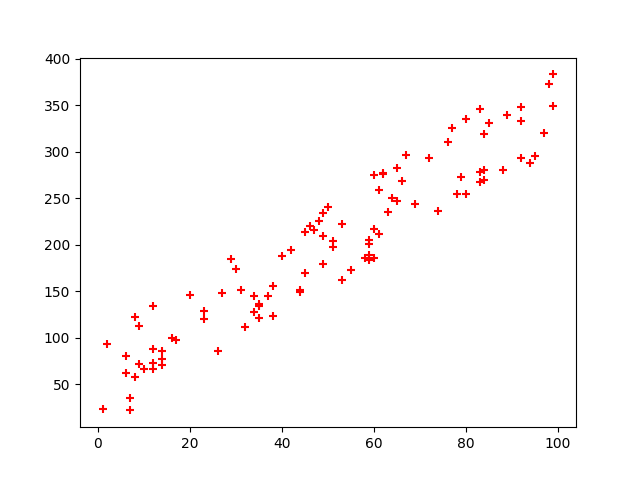
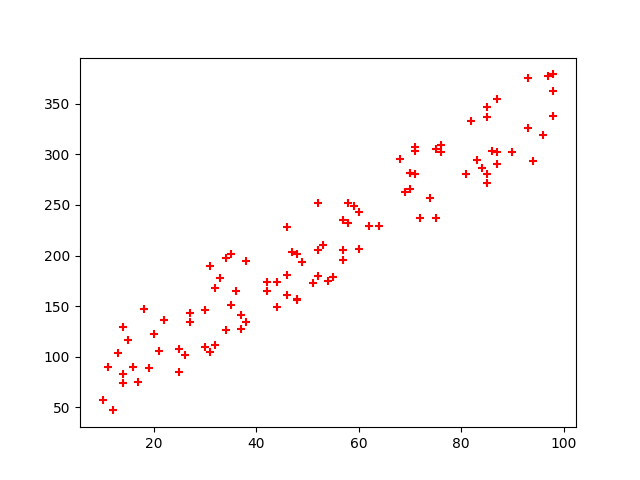
Django1

diff --git a/inter/settings.py b/inter/settings.py
@@ -55,7 +55,7 @@ ROOT_URLCONF = 'inter.urls'
 TEMPLATES = [
     {
         'BACKEND': 'django.template.backends.django.DjangoTemplates',
-        'DIRS': [BASE_DIR,"template"],
+        'DIRS': [BASE_DIR,""],
         'APP_DIRS': True,
         'OPTIONS': {
             'context_processors': [

diff --git a/inter/viesw.py b/inter/viesw.py
@@ -7,8 +7,8 @@ import io
 import urllib,base64
 
 
-x=np.random.randint(1,100,100)
-y=3*x+np.random.randint(1,100,100)
+x=np.random.randint(10,100,100)
+y=3*x+np.random.randint(10,100,100)
 
 data={
     'one':'Home',
